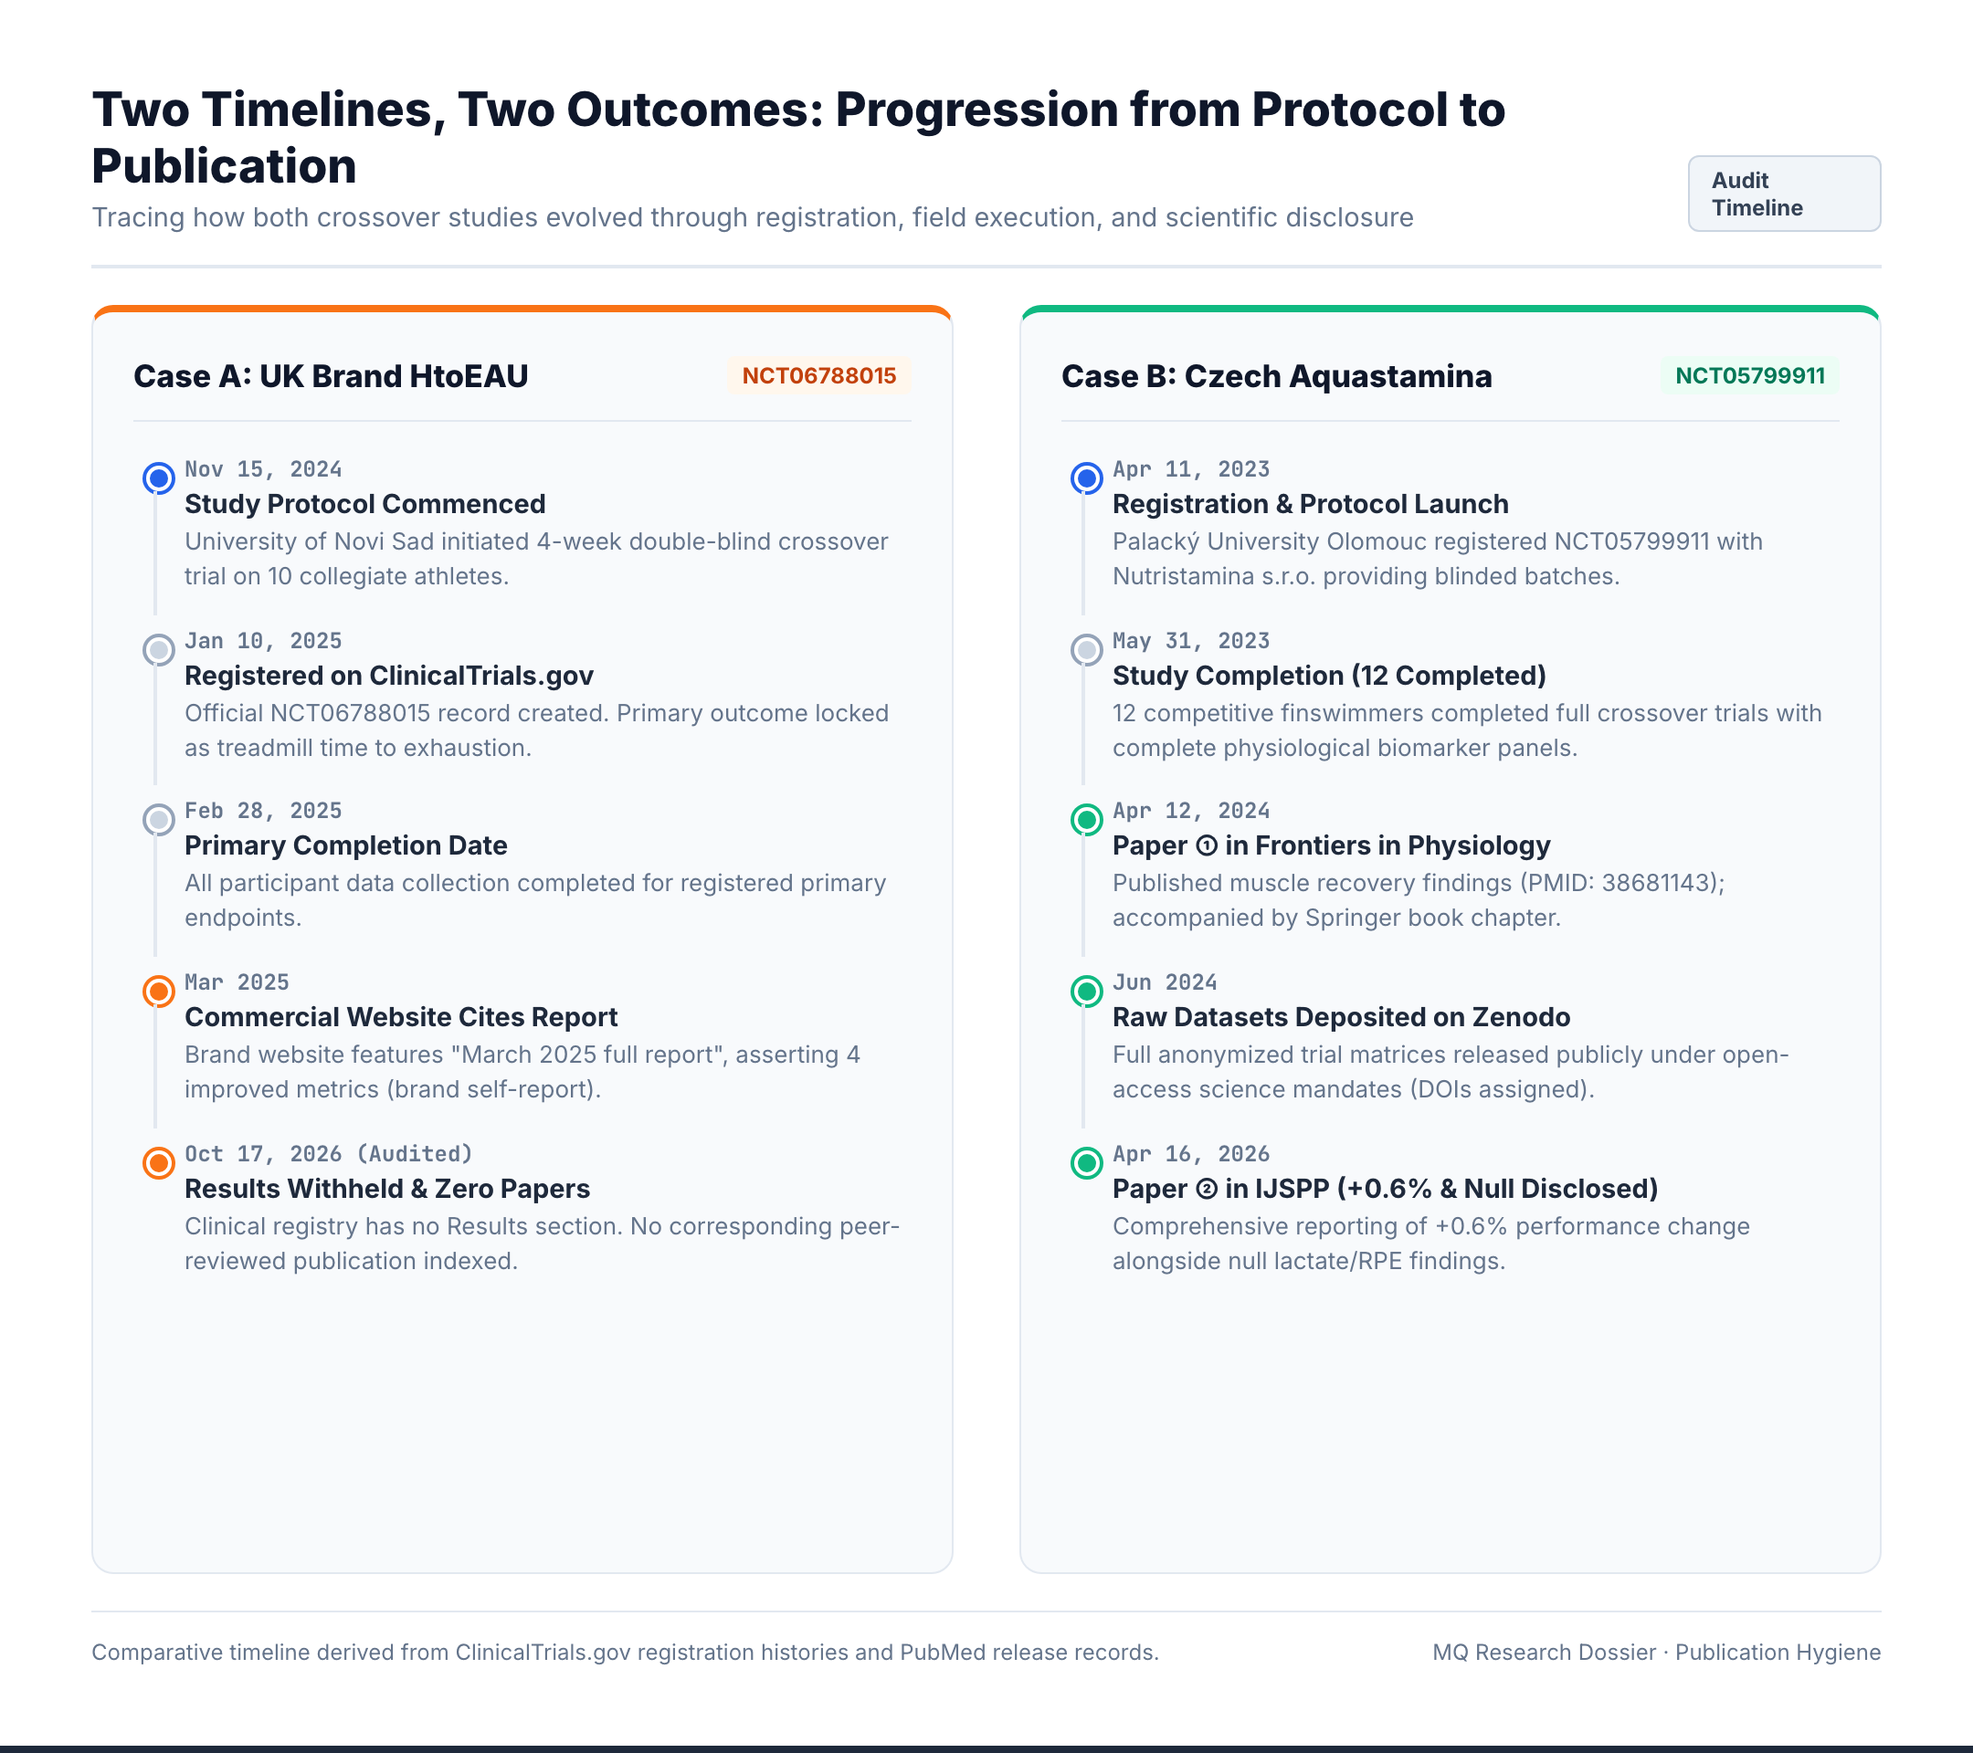
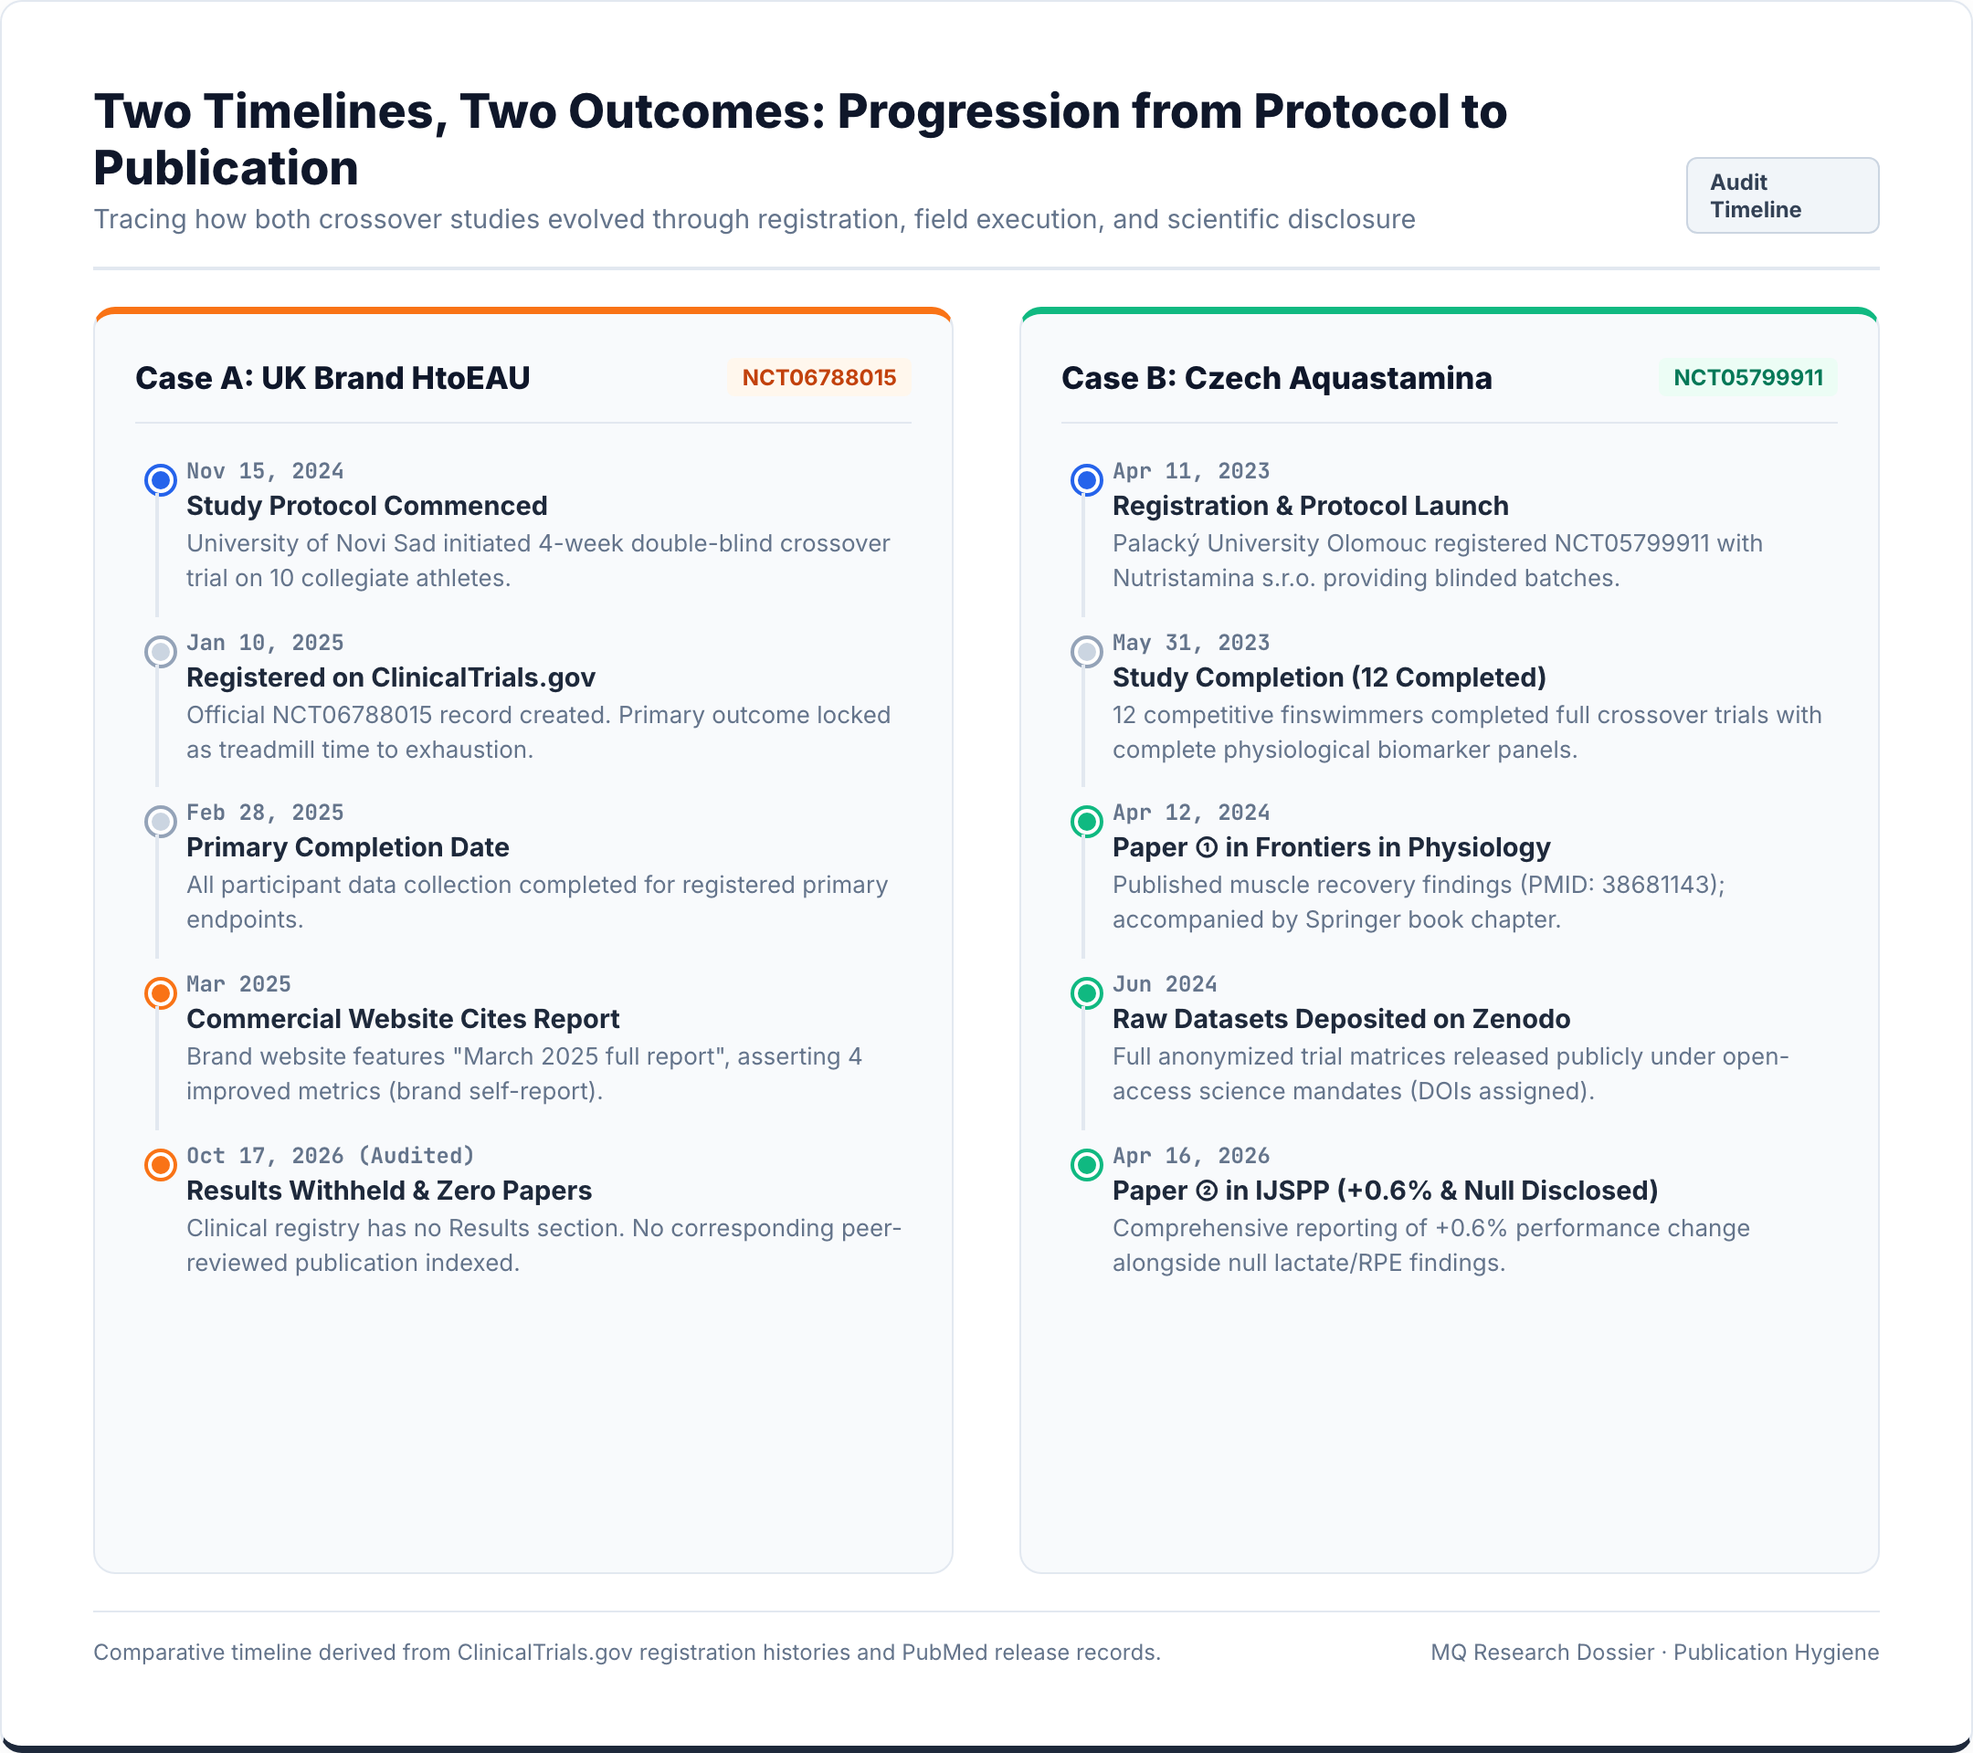
fix(blog): eliminate excess black background block in English comparison chart and snap locator bounding boxes

diff --git a/blog/european-hydrogen-water-cases-en.html b/blog/european-hydrogen-water-cases-en.html
@@ -614,7 +614,7 @@
     <h2>5. Side-by-Side Comparison of the Two Dossiers</h2>
     <p>This comparative table highlights the core methodological divide:</p>
     <div class="article-figure">
-      <img src="/assets/images/blog/european-hydrogen-water-cases/fig1-case-comparison-table-en.png" alt="Side-by-Side Dossier Comparison" width="1080" height="1400">
+      <img src="/assets/images/blog/european-hydrogen-water-cases/fig1-case-comparison-table-en.png" alt="Side-by-Side Dossier Comparison" width="1080" height="959" style="width:100%;height:auto;" loading="lazy">
       <figcaption>▲ Figure 1: Side-by-side dossier comparison between UK Case A and Czech Case B</figcaption>
     </div>
 

diff --git a/scripts/generate_en_charts.py b/scripts/generate_en_charts.py
@@ -3,7 +3,8 @@
 """
 Generate professional English infographics for the European Hydrogen Water Cases blog post.
 Rendered via Playwright with 2x Device Pixel Ratio for crystal-clear retina display.
-Features authentic market products on the cover image alongside English title and clinical IDs.
+Uses element-level locator screenshot to eliminate any extraneous background margins,
+viewport mismatches, or dark borders.
 """
 
 import os
@@ -13,15 +14,16 @@ from playwright.sync_api import sync_playwright
 OUT_DIR = "assets/images/blog/european-hydrogen-water-cases"
 os.makedirs(OUT_DIR, exist_ok=True)
 
-# Common styling & font stack
+# Common styling & font stack - transparent body, no black margins
 BASE_STYLE = """
 <style>
   @import url('https://fonts.googleapis.com/css2?family=Inter:wght@400;500;600;700;800;900&family=JetBrains+Mono:wght@500;700&display=swap');
   * { box-sizing: border-box; margin: 0; padding: 0; }
   body {
     font-family: 'Inter', -apple-system, BlinkMacSystemFont, 'Segoe UI', Roboto, sans-serif;
-    background: #0f172a;
-    color: #f8fafc;
+    background: transparent;
+    margin: 0;
+    padding: 0;
     -webkit-font-smoothing: antialiased;
   }
 </style>
@@ -212,7 +214,6 @@ def generate_cover(page):
           max-width: 100%;
           object-fit: contain;
           filter: drop-shadow(0 10px 20px rgba(0,0,0,0.45));
-          transition: transform 0.2s;
         }}
         .prod-name {{
           font-size: 13.5px;
@@ -304,10 +305,10 @@ def generate_cover(page):
     </body>
     </html>
     """
-    page.set_viewport_size({"width": 1080, "height": 460})
+    page.set_viewport_size({"width": 1080, "height": 600})
     page.set_content(html)
-    page.screenshot(path=os.path.join(OUT_DIR, "fig5-cover-en.png"))
-    print("✓ Generated fig5-cover-en.png with real products!")
+    page.locator(".cover-container").screenshot(path=os.path.join(OUT_DIR, "fig5-cover-en.png"))
+    print("✓ Generated fig5-cover-en.png with locator screenshot")
 
 def generate_comparison_table(page):
     html = f"""
@@ -321,19 +322,22 @@ def generate_comparison_table(page):
           width: 1080px;
           background: #ffffff;
           color: #0f172a;
-          padding: 44px 48px;
-          box-shadow: 0 10px 40px rgba(0,0,0,0.1);
+          padding: 40px 44px;
+          border: 1px solid #e2e8f0;
+          border-top: 5px solid #1d4ed8;
+          border-radius: 12px;
+          box-shadow: 0 4px 20px rgba(0,0,0,0.05);
         }}
         .header-box {{
           border-bottom: 2px solid #0f172a;
-          padding-bottom: 20px;
-          margin-bottom: 24px;
+          padding-bottom: 18px;
+          margin-bottom: 22px;
           display: flex;
           justify-content: space-between;
           align-items: flex-end;
         }}
         .header-title {{
-          font-size: 26px;
+          font-size: 25px;
           font-weight: 800;
           color: #0f172a;
           line-height: 1.3;
@@ -349,7 +353,7 @@ def generate_comparison_table(page):
           color: #1d4ed8;
           font-size: 12px;
           font-weight: 700;
-          padding: 6px 14px;
+          padding: 5px 12px;
           border-radius: 6px;
           text-transform: uppercase;
           letter-spacing: 0.5px;
@@ -363,7 +367,7 @@ def generate_comparison_table(page):
         th {{
           background: #0f172a;
           color: #ffffff;
-          padding: 13px 16px;
+          padding: 12px 16px;
           text-align: left;
           font-weight: 700;
           letter-spacing: 0.3px;
@@ -372,7 +376,7 @@ def generate_comparison_table(page):
         th:nth-child(2) {{ width: 39%; background: #1e293b; }}
         th:nth-child(3) {{ width: 39%; background: #0284c7; border-radius: 0 6px 0 0; }}
         td {{
-          padding: 12px 16px;
+          padding: 11px 16px;
           border-bottom: 1px solid #e2e8f0;
           vertical-align: top;
         }}
@@ -418,8 +422,8 @@ def generate_comparison_table(page):
           font-weight: 700;
         }}
         .footer-note {{
-          margin-top: 24px;
-          padding-top: 16px;
+          margin-top: 20px;
+          padding-top: 14px;
           border-top: 1px solid #e2e8f0;
           display: flex;
           justify-content: space-between;
@@ -513,10 +517,11 @@ def generate_comparison_table(page):
     </body>
     </html>
     """
-    page.set_viewport_size({"width": 1080, "height": 1380})
+    page.set_viewport_size({"width": 1080, "height": 1400})
     page.set_content(html)
-    page.screenshot(path=os.path.join(OUT_DIR, "fig1-case-comparison-table-en.png"))
-    print("✓ Generated fig1-case-comparison-table-en.png")
+    # Target strictly the table container element to eliminate any excess background
+    page.locator(".table-container").screenshot(path=os.path.join(OUT_DIR, "fig1-case-comparison-table-en.png"))
+    print("✓ Generated fig1-case-comparison-table-en.png with locator screenshot (ZERO black bars)")
 
 def generate_four_endpoints_grid(page):
     html = f"""
@@ -530,28 +535,31 @@ def generate_four_endpoints_grid(page):
           width: 1080px;
           height: 1120px;
           background: #f8fafc;
-          padding: 48px;
+          padding: 44px 48px;
           display: flex;
           flex-direction: column;
           justify-content: space-between;
+          border: 1px solid #e2e8f0;
+          border-radius: 12px;
+          box-shadow: 0 4px 20px rgba(0,0,0,0.05);
         }}
         .grid-header {{
           border-bottom: 2px solid #e2e8f0;
-          padding-bottom: 20px;
+          padding-bottom: 18px;
           display: flex;
           justify-content: space-between;
           align-items: flex-end;
         }}
         .grid-title {{
-          font-size: 28px;
+          font-size: 26px;
           font-weight: 800;
           color: #0f172a;
           line-height: 1.25;
         }}
         .grid-sub {{
-          font-size: 14.5px;
+          font-size: 14px;
           color: #64748b;
-          margin-top: 6px;
+          margin-top: 4px;
         }}
         .tag-pill {{
           background: #eff6ff;
@@ -559,68 +567,68 @@ def generate_four_endpoints_grid(page):
           border: 1px solid #bfdbfe;
           font-size: 12px;
           font-weight: 700;
-          padding: 6px 14px;
+          padding: 5px 12px;
           border-radius: 20px;
           text-transform: uppercase;
         }}
         .cards-wrapper {{
           display: grid;
           grid-template-columns: 1fr 1fr;
-          gap: 24px;
-          margin: 24px 0;
+          gap: 22px;
+          margin: 22px 0;
           flex: 1;
         }}
         .endpoint-card {{
           background: #ffffff;
           border: 1px solid #e2e8f0;
-          border-radius: 14px;
-          padding: 28px;
+          border-radius: 12px;
+          padding: 24px 26px;
           display: flex;
           flex-direction: column;
-          box-shadow: 0 4px 16px rgba(0,0,0,0.03);
-          border-top: 5px solid #cbd5e1;
+          box-shadow: 0 2px 10px rgba(0,0,0,0.03);
+          border-top: 4px solid #cbd5e1;
         }}
         .card-top {{
           display: flex;
           justify-content: space-between;
           align-items: flex-start;
-          margin-bottom: 16px;
+          margin-bottom: 14px;
         }}
         .card-badge {{
-          font-size: 11.5px;
+          font-size: 11px;
           font-weight: 700;
           text-transform: uppercase;
           letter-spacing: 0.5px;
-          padding: 4px 10px;
+          padding: 4px 8px;
           border-radius: 6px;
         }}
         .badge-phys {{ background: #eff6ff; color: #1d4ed8; border: 1px solid #bfdbfe; }}
         .badge-subj {{ background: #fdf2f8; color: #db2777; border: 1px solid #fbcfe8; }}
         .metric-id {{
           font-family: 'JetBrains Mono', monospace;
-          font-size: 13px;
+          font-size: 12.5px;
           color: #94a3b8;
           font-weight: 700;
         }}
         .card-title {{
-          font-size: 20px;
+          font-size: 19px;
           font-weight: 700;
           color: #0f172a;
-          margin-bottom: 12px;
+          margin-bottom: 10px;
         }}
         .card-definition {{
-          font-size: 14px;
+          font-size: 13.5px;
           color: #475569;
-          line-height: 1.6;
-          margin-bottom: 16px;
+          line-height: 1.55;
+          margin-bottom: 14px;
           flex: 1;
         }}
         .translation-box {{
           background: #f8fafc;
           border-left: 3px solid #1d4ed8;
-          padding: 12px 14px;
-          border-radius: 0 8px 8px 0;
-          font-size: 13.5px;
+          padding: 10px 12px;
+          border-radius: 0 6px 6px 0;
+          font-size: 13px;
           color: #1e293b;
           line-height: 1.5;
         }}
@@ -629,10 +637,10 @@ def generate_four_endpoints_grid(page):
         }}
         .grid-footer {{
           border-top: 1px solid #e2e8f0;
-          padding-top: 18px;
+          padding-top: 16px;
           display: flex;
           justify-content: space-between;
-          font-size: 12.5px;
+          font-size: 12px;
           color: #64748b;
         }}
       </style>
@@ -709,10 +717,10 @@ def generate_four_endpoints_grid(page):
     </body>
     </html>
     """
-    page.set_viewport_size({"width": 1080, "height": 1120})
+    page.set_viewport_size({"width": 1080, "height": 1200})
     page.set_content(html)
-    page.screenshot(path=os.path.join(OUT_DIR, "fig2-four-endpoints-grid-en.png"))
-    print("✓ Generated fig2-four-endpoints-grid-en.png")
+    page.locator(".grid-container").screenshot(path=os.path.join(OUT_DIR, "fig2-four-endpoints-grid-en.png"))
+    print("✓ Generated fig2-four-endpoints-grid-en.png with locator screenshot")
 
 def generate_axis_chart(page):
     html = f"""
@@ -730,7 +738,10 @@ def generate_axis_chart(page):
           display: flex;
           flex-direction: column;
           justify-content: space-between;
+          border: 1px solid #e2e8f0;
           border-bottom: 4px solid #0284c7;
+          border-radius: 12px;
+          box-shadow: 0 4px 20px rgba(0,0,0,0.05);
         }}
         .axis-header {{
           border-bottom: 2px solid #e2e8f0;
@@ -919,10 +930,10 @@ def generate_axis_chart(page):
     </body>
     </html>
     """
-    page.set_viewport_size({"width": 1080, "height": 760})
+    page.set_viewport_size({"width": 1080, "height": 850})
     page.set_content(html)
-    page.screenshot(path=os.path.join(OUT_DIR, "fig3-0-6-percent-axis-en.png"))
-    print("✓ Generated fig3-0-6-percent-axis-en.png")
+    page.locator(".axis-container").screenshot(path=os.path.join(OUT_DIR, "fig3-0-6-percent-axis-en.png"))
+    print("✓ Generated fig3-0-6-percent-axis-en.png with locator screenshot")
 
 def generate_timeline(page):
     html = f"""
@@ -940,7 +951,10 @@ def generate_timeline(page):
           display: flex;
           flex-direction: column;
           justify-content: space-between;
+          border: 1px solid #e2e8f0;
           border-bottom: 4px solid #1e293b;
+          border-radius: 12px;
+          box-shadow: 0 4px 20px rgba(0,0,0,0.05);
         }}
         .timeline-header {{
           border-bottom: 2px solid #e2e8f0;
@@ -1142,13 +1156,13 @@ def generate_timeline(page):
     </body>
     </html>
     """
-    page.set_viewport_size({"width": 1080, "height": 960})
+    page.set_viewport_size({"width": 1080, "height": 1050})
     page.set_content(html)
-    page.screenshot(path=os.path.join(OUT_DIR, "fig4-two-cases-timeline-en.png"))
-    print("✓ Generated fig4-two-cases-timeline-en.png")
+    page.locator(".timeline-container").screenshot(path=os.path.join(OUT_DIR, "fig4-two-cases-timeline-en.png"))
+    print("✓ Generated fig4-two-cases-timeline-en.png with locator screenshot")
 
 def main():
-    print("Starting Playwright infographic generator...")
+    print("Starting Playwright infographic generator with locator screenshots...")
     with sync_playwright() as p:
         browser = p.chromium.launch()
         page = browser.new_page(device_scale_factor=2) # 2x DPR for ultra-crisp retina output
@@ -1160,7 +1174,7 @@ def main():
         generate_timeline(page)
         
         browser.close()
-    print("All English infographics successfully generated!")
+    print("All English infographics successfully re-generated without any black bars!")
 
 if __name__ == '__main__':
     main()
